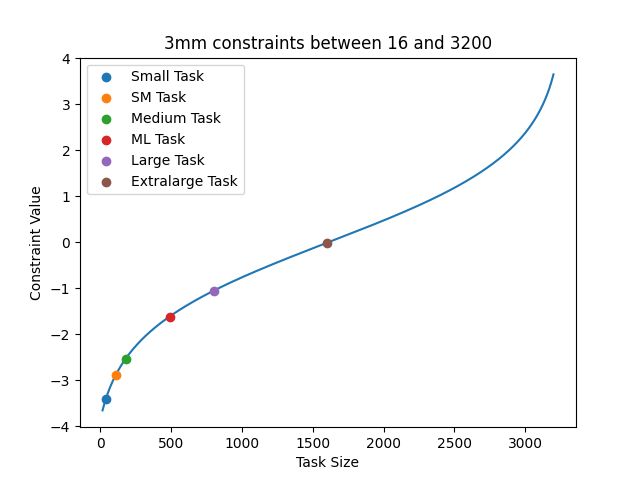
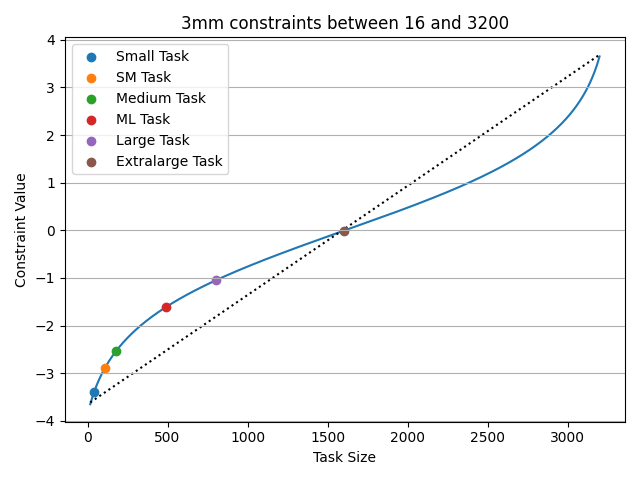
Update figure

diff --git a/ytopt/benchmark/ConditionalSampling/constrained_task_3mm.py b/ytopt/benchmark/ConditionalSampling/constrained_task_3mm.py
@@ -22,18 +22,29 @@ def sdv_constrained(x, low, high):
     return np.log(x / (1.0 - x))
 
 fig,ax = plt.subplots()
+size_lookup = {}
 for size in sizes[1:-1]:
     name = lookup_ival[size][1]
     if len(name) > 2:
         name = name.lower().capitalize()
     constrained = sdv_constrained(size, constraint_low, constraint_high)
+    size_lookup[size] = constrained
     ax.scatter(size, constrained, label=f"{name} Task")
     print(f"{name} --> {constrained}")
 ax.legend(loc='upper left')
-ax.plot(x_range, sdv_constrained(x_range, constraint_low, constraint_high), label="Logit Values", zorder=-1)
+ax.plot(x_range, sdv_constrained(x_range, constraint_low, constraint_high), label="Logit Values", zorder=-2)
+# Linear Fit line
+lin_min = sdv_constrained(x_range[0],constraint_low,constraint_high)
+lin_max = sdv_constrained(x_range[-1], constraint_low, constraint_high)
+lin_range = ((lin_max-lin_min)/(constraint_high-constraint_low)) * x_range - (lin_max-lin_min)/2
+ax.plot(x_range, lin_range, label="Linear Fit", linestyle='dotted', color='k', zorder=-1)
+#for size in sizes[1:-1]:
+#    ax.vlines(size, min(size_lookup[size], lin_range[size]), max(size_lookup[size], lin_range[size]), zorder=-3, color='k')
+ax.grid(axis='y')
 #ax.set_xscale('log')
 ax.set_xlabel('Task Size')
 ax.set_ylabel('Constraint Value')
 ax.set_title(f"3mm constraints between {constraint_low} and {constraint_high}")
+fig.tight_layout()
 fig.savefig(os.path.dirname(__file__)+"/Assets/constrained_values.png", format='png')
 
